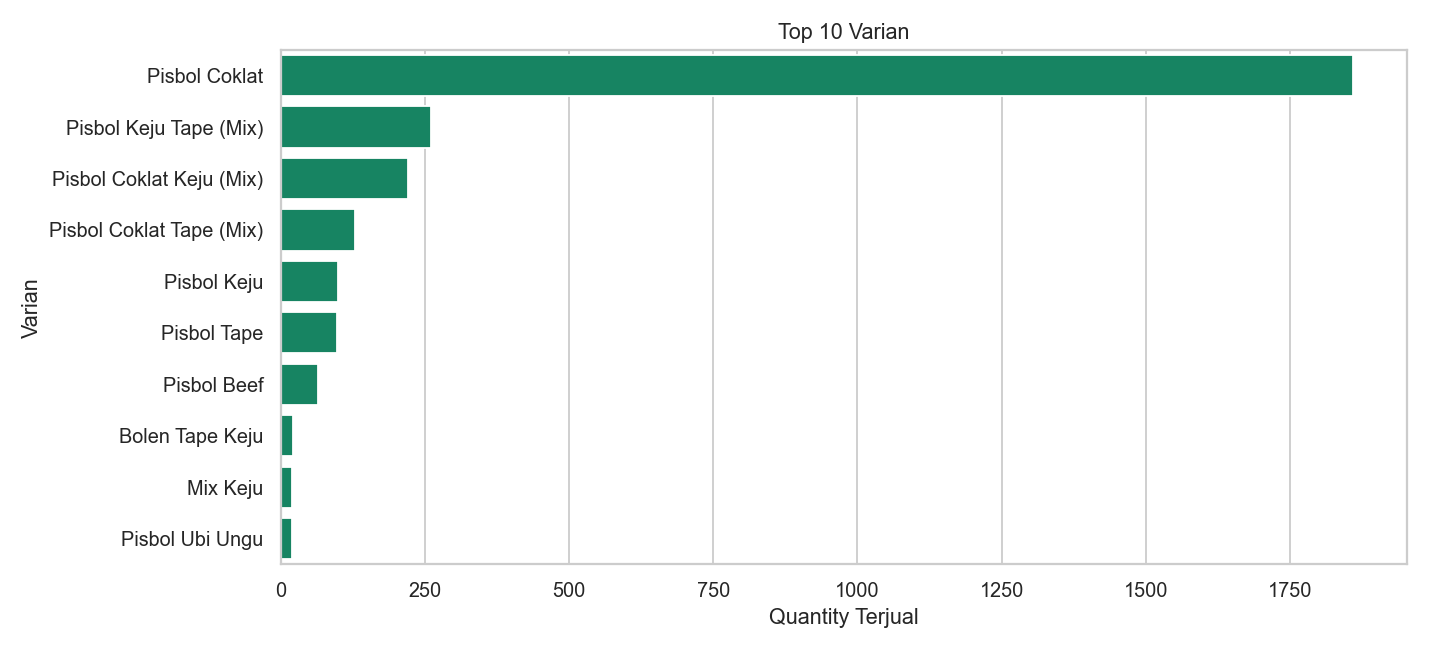
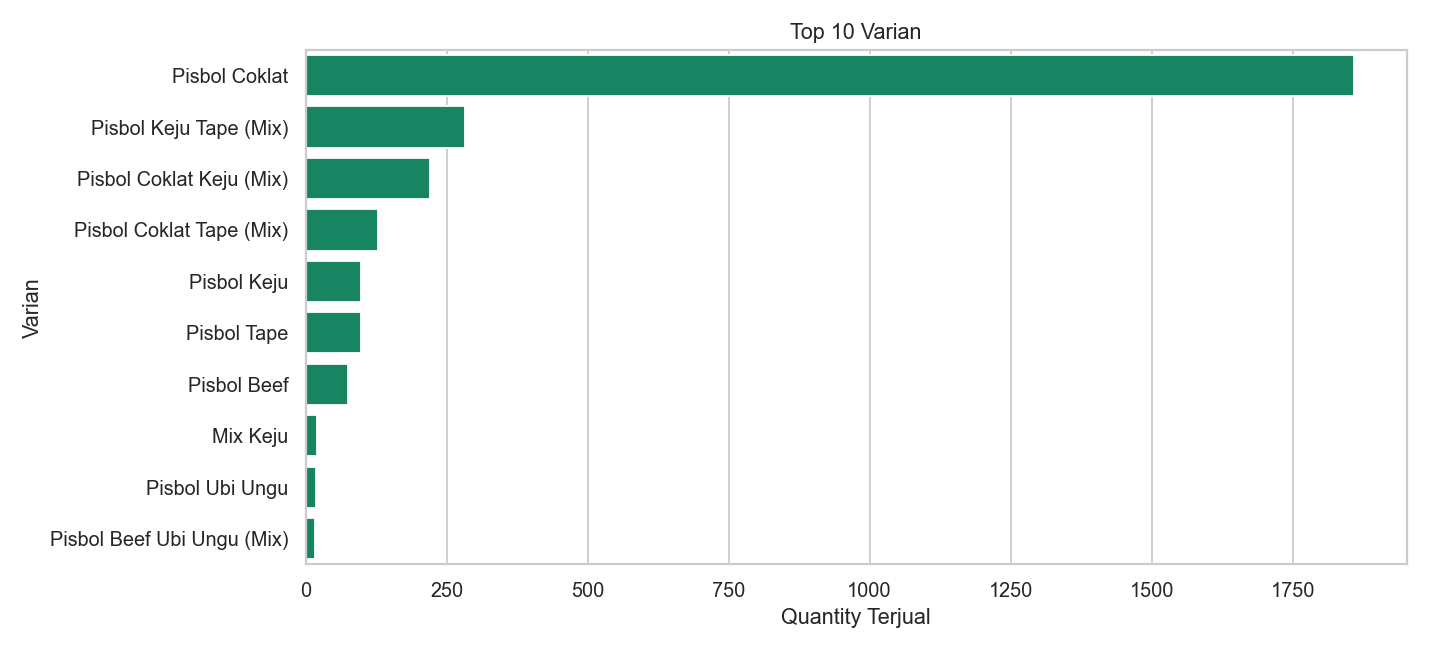
fix: terapkan alias varian

diff --git a/ml-service/scripts/clean_data.py b/ml-service/scripts/clean_data.py
@@ -11,6 +11,7 @@ REPORT = ROOT / "ml-service" / "reports" / "cleaning_report.md"
 DROP_REPORT = ROOT / "ml-service" / "reports" / "dropped_duplicates.csv"
 VARIANT_REVIEW = ROOT / "ml-service" / "reports" / "variant_review.md"
 OUTPUT = DATA_DIR / "cleaned_historis.csv"
+ALIASES = DATA_DIR / "variant_aliases.csv"
 
 
 def snake(value):
@@ -100,6 +101,25 @@ def source_value(value):
     if isinstance(value, pd.Timestamp):
         return value.isoformat()
     return str(value)
+
+
+def load_variant_aliases():
+    if not ALIASES.is_file():
+        raise FileNotFoundError(f"File alias varian tidak ditemukan: {ALIASES}")
+    frame = pd.read_csv(ALIASES, dtype=str)
+    if list(frame.columns) != ["alias", "canonical"]:
+        raise ValueError("variant_aliases.csv harus memiliki kolom alias,canonical.")
+
+    aliases = {}
+    for _, row in frame.iterrows():
+        alias = clean_text(row["alias"])
+        canonical = clean_text(row["canonical"])
+        if not alias or not canonical:
+            raise ValueError("Kolom alias dan canonical tidak boleh kosong.")
+        if alias in aliases:
+            raise ValueError(f"Alias varian duplikat: {alias}")
+        aliases[alias] = canonical
+    return aliases
 
 
 def find_excel():
@@ -247,6 +267,14 @@ def main():
         for variant in before_mix_normalization["variant"].unique()
     )
     cleaned["variant"] = cleaned["variant"].map(canonical_mix)
+    aliases = load_variant_aliases()
+    alias_counts = {
+        alias: int(cleaned["variant"].eq(alias).sum())
+        for alias in aliases
+    }
+    variants_before_aliases = cleaned["variant"].nunique()
+    cleaned["variant"] = cleaned["variant"].replace(aliases)
+    variants_after_aliases = cleaned["variant"].nunique()
     duplicate_key = ["tanggal", "nama_produk", "variant", "isi_pcs", "quantity", "total_harga", "harga_per_pack", "sheet"]
     # Archive rows the previous rule mistakenly dropped because it ignored No.
     prior_rule_duplicates = before_mix_normalization.duplicated(subset=duplicate_key, keep="first")
@@ -307,13 +335,10 @@ def main():
 
     REPORT.parent.mkdir(parents=True, exist_ok=True)
     review_names = {
-        "Pisbol Smoked Beef",
         "Pisbol Pisang Coklat (Mix)",
         "Pisbol Ubi Ungu Pisang Keju (Mix)",
         "Mix Keju",
-        "Bolen Tape Keju",
         "Premium Mix",
-        "Pisbol Ubi Ungu Keju",
     }
     review_rows = []
     for variant in sorted(review_names.intersection(set(cleaned["variant"]))):
@@ -321,9 +346,21 @@ def main():
         review_rows.append(
             f"| {variant} | {len(subset)} | {', '.join(sorted(subset['sheet'].unique()))} |"
         )
+    alias_rows = [
+        f"| {alias} | {canonical} | {alias_counts[alias]} |"
+        for alias, canonical in aliases.items()
+    ]
     VARIANT_REVIEW.write_text(
         "\n".join([
             "# Review Nama Varian",
+            "",
+            "## Sudah diputuskan dan diterapkan",
+            "",
+            "| Alias | Nama kanonis | Baris dialihkan |",
+            "|---|---|---:|",
+            *alias_rows,
+            "",
+            "## Belum diputuskan (dipertahankan apa adanya)",
             "",
             "Varian berikut sengaja tidak digabung atau dinormalisasi otomatis; mohon tentukan apakah nama-nama ini valid atau perlu koreksi.",
             "",
@@ -365,6 +402,12 @@ def main():
         f"- Baris dibuang - teks/kosong: {dropped['empty']}",
         f"- Baris dibuang - salinan sumber yang benar-benar identik (termasuk No.): {duplicate_rows}",
         f"- Baris yang aturan deduplikasi lama keliru buang (disimpan di `{DROP_REPORT.relative_to(ROOT)}`): {len(historical_dropped)}; seluruhnya dipertahankan pada CSV baru.",
+        f"- Varian unik sebelum alias: {variants_before_aliases}; sesudah alias: {variants_after_aliases}.",
+        "- Alias varian diterapkan:",
+        *[
+            f"  - `{alias}` -> `{canonical}`: {alias_counts[alias]} baris"
+            for alias, canonical in aliases.items()
+        ],
         f"- Tanggal diisi dari baris sebelumnya: {filled_dates}",
         f"- Perbaikan spasi: {cleaned_spaces}",
         f"- Varian digabung karena beda kapital/spasi: {merged_variants}",

diff --git a/ml-service/reports/cleaning_report.md b/ml-service/reports/cleaning_report.md
@@ -34,6 +34,11 @@
 - Baris dibuang - teks/kosong: 0
 - Baris dibuang - salinan sumber yang benar-benar identik (termasuk No.): 0
 - Baris yang aturan deduplikasi lama keliru buang (disimpan di `ml-service\reports\dropped_duplicates.csv`): 150; seluruhnya dipertahankan pada CSV baru.
+- Varian unik sebelum alias: 26; sesudah alias: 23.
+- Alias varian diterapkan:
+  - `Pisbol Smoked Beef` -> `Pisbol Beef`: 6 baris
+  - `Bolen Tape Keju` -> `Pisbol Keju Tape (Mix)`: 14 baris
+  - `Pisbol Ubi Ungu Keju` -> `Pisbol Keju Ubi Ungu (Mix)`: 1 baris
 - Tanggal diisi dari baris sebelumnya: 0
 - Perbaikan spasi: 0
 - Varian digabung karena beda kapital/spasi: 0
@@ -41,7 +46,6 @@
 - Rentang tanggal akhir: 2026-05-29 sampai 2026-11-09
 
 ## Daftar varian akhir
-- Bolen Tape Keju
 - Mix Keju
 - Pisbol Beef
 - Pisbol Beef Ubi Ungu (Mix)
@@ -53,12 +57,10 @@
 - Pisbol Keju Tape (Mix)
 - Pisbol Keju Ubi Ungu (Mix)
 - Pisbol Pisang Coklat (Mix)
-- Pisbol Smoked Beef
 - Pisbol Tape
 - Pisbol Tape Beef (Mix)
 - Pisbol Tape Ubi Ungu (Mix)
 - Pisbol Ubi Ungu
-- Pisbol Ubi Ungu Keju
 - Pisbol Ubi Ungu Pisang Keju (Mix)
 - Premium
 - Premium Coklat
@@ -77,8 +79,6 @@
 - `Pisbol Keju Ubi Ungu (Mix)` mirip dengan: `Pisbol Tape Ubi Ungu (Mix)`, `Pisbol Beef Ubi Ungu (Mix)`
 - `Pisbol Tape Beef (Mix)` mirip dengan: `Pisbol Coklat Beef (Mix)`
 - `Pisbol Tape Ubi Ungu (Mix)` mirip dengan: `Pisbol Keju Ubi Ungu (Mix)`, `Pisbol Beef Ubi Ungu (Mix)`
-- `Pisbol Ubi Ungu` mirip dengan: `Pisbol Ubi Ungu Keju`
-- `Pisbol Ubi Ungu Keju` mirip dengan: `Pisbol Ubi Ungu`
 
 ## Baris menyimpang harga per pack
 

diff --git a/docs/PROGRESS.md b/docs/PROGRESS.md
@@ -41,4 +41,5 @@
   - total historis database: Rp72.141.000, sama dengan jumlah `total_harga` CSV
   - laporan cleaning dan folder EDA tersedia
 - **Koreksi audit data sebelum Tahap 3:** nomor `No.` pada semua sheet unik dan berurutan; aturan deduplikasi lama sebelumnya membuang 150 baris penjualan yang berbeda nomor. Aturan sudah diperbaiki, 150 baris lama disimpan di `ml-service/reports/dropped_duplicates.csv`, dan semua 699 baris kini dipertahankan. Nama varian turun dari 28 menjadi 26 setelah normalisasi urutan rasa pada Mix; nama lain yang meragukan tetap terpisah di `ml-service/reports/variant_review.md`.
+- **Alias varian:** 3 keputusan alias diterapkan dari `data/variant_aliases.csv`; jumlah varian 26 menjadi 23 tanpa mengubah 699 baris atau total Rp72.141.000. Empat varian belum diputuskan tetap dipertahankan apa adanya.
 - **Perbandingan per sheet:** jumlah baris dan total harga Excel cocok dengan CSV dan database untuk Mei-November.

diff --git a/ml-service/reports/variant_review.md b/ml-service/reports/variant_review.md
@@ -1,13 +1,20 @@
 # Review Nama Varian
 
+## Sudah diputuskan dan diterapkan
+
+| Alias | Nama kanonis | Baris dialihkan |
+|---|---|---:|
+| Pisbol Smoked Beef | Pisbol Beef | 6 |
+| Bolen Tape Keju | Pisbol Keju Tape (Mix) | 14 |
+| Pisbol Ubi Ungu Keju | Pisbol Keju Ubi Ungu (Mix) | 1 |
+
+## Belum diputuskan (dipertahankan apa adanya)
+
 Varian berikut sengaja tidak digabung atau dinormalisasi otomatis; mohon tentukan apakah nama-nama ini valid atau perlu koreksi.
 
 | Varian | Jumlah baris | Sheet |
 |---|---:|---|
-| Bolen Tape Keju | 14 | Juli, Juni |
 | Mix Keju | 1 | Oktober |
 | Pisbol Pisang Coklat (Mix) | 1 | November |
-| Pisbol Smoked Beef | 6 | November |
-| Pisbol Ubi Ungu Keju | 1 | November |
 | Pisbol Ubi Ungu Pisang Keju (Mix) | 1 | November |
 | Premium Mix | 4 | Juli, Oktober, September |

diff --git a/ml-service/reports/eda/eda_summary.md b/ml-service/reports/eda/eda_summary.md
@@ -14,7 +14,7 @@
 - Min: 12000.00
 - Max: 1800000.00
 
-- Jumlah varian: 26
+- Jumlah varian: 23
 
 ## Total omzet per bulan
 - 2026-05: Rp1,104,000
